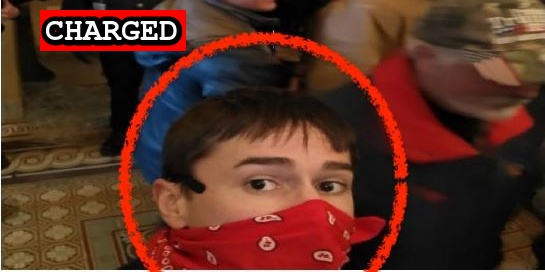
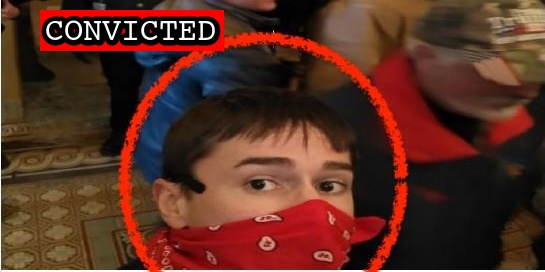
Latest plea and sentence

Changed region(s): [[0.0624, 0.0294, 0.4367, 0.2059]]

diff --git a/docs/_suspects/samuel-fox.md b/docs/_suspects/samuel-fox.md
@@ -4,15 +4,15 @@ lastName: Fox
 hashtag: SamuelFox
 aka:
 residence: Pennsylvania
-status: Charged
+status: Convicted
 date: 2021-06-23
 charged: 2021-06-23
 indicted:
-convicted:
+convicted: 2021-11-05
 sentenced:
 dismissed:
 deceased:
-plea_hearing:
+plea_hearing: 2021-11-05
 sentencing:
 age:
 occupation:
@@ -34,6 +34,10 @@ published: true
 caseNumber: 1:21-mj-479
 videos:
 charges:
+- code: 18 USC § 5104(e)(2)(G)
+  title: Parading, demonstrating or picketing in a Capitol building
+  url: https://www.law.cornell.edu/uscode/text/40/5104
+  felony: false
 sentence:
 ---
 - [News Report](https://triblive.com/local/westmoreland/3-more-western-pa-residents-including-scottdale-man-charged-in-capitol-riots/)

diff --git a/docs/_suspects/glenn-croy.md b/docs/_suspects/glenn-croy.md
@@ -4,12 +4,12 @@ lastName: Croy
 hashtag: GlennCroy
 aka: Wes Croy
 residence: Colorado
-status: Convicted
+status: Sentenced
 date: 2021-02-17
 charged: 2021-02-17
 indicted:
 convicted: 2021-08-09
-sentenced:
+sentenced: 2021-11-05
 dismissed:
 deceased:
 plea_hearing: 2021-08-09
@@ -39,6 +39,10 @@ charges:
     url: https://www.law.cornell.edu/uscode/text/40/5104
     felony: false
 sentence:
+  - 90 days home detention
+  - 14 days residential reentry center
+  - 36 months probation
+  - $500 restitution
 ---
 
 - [News Report](https://denver.cbslocal.com/2021/02/17/glenn-wes-lee-croy-capitol-riot/)
